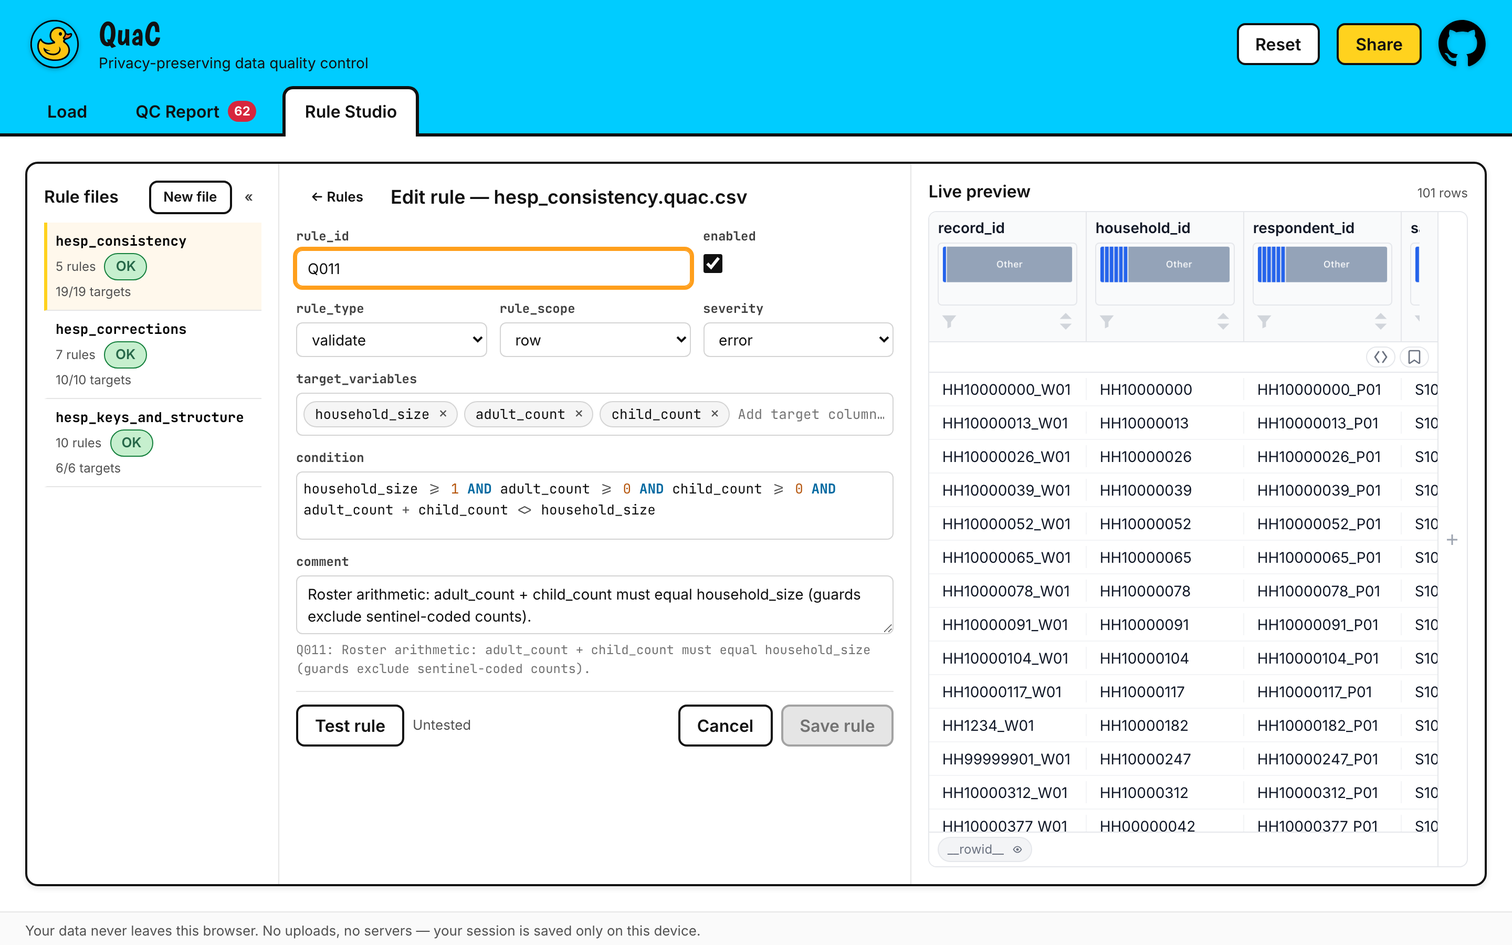
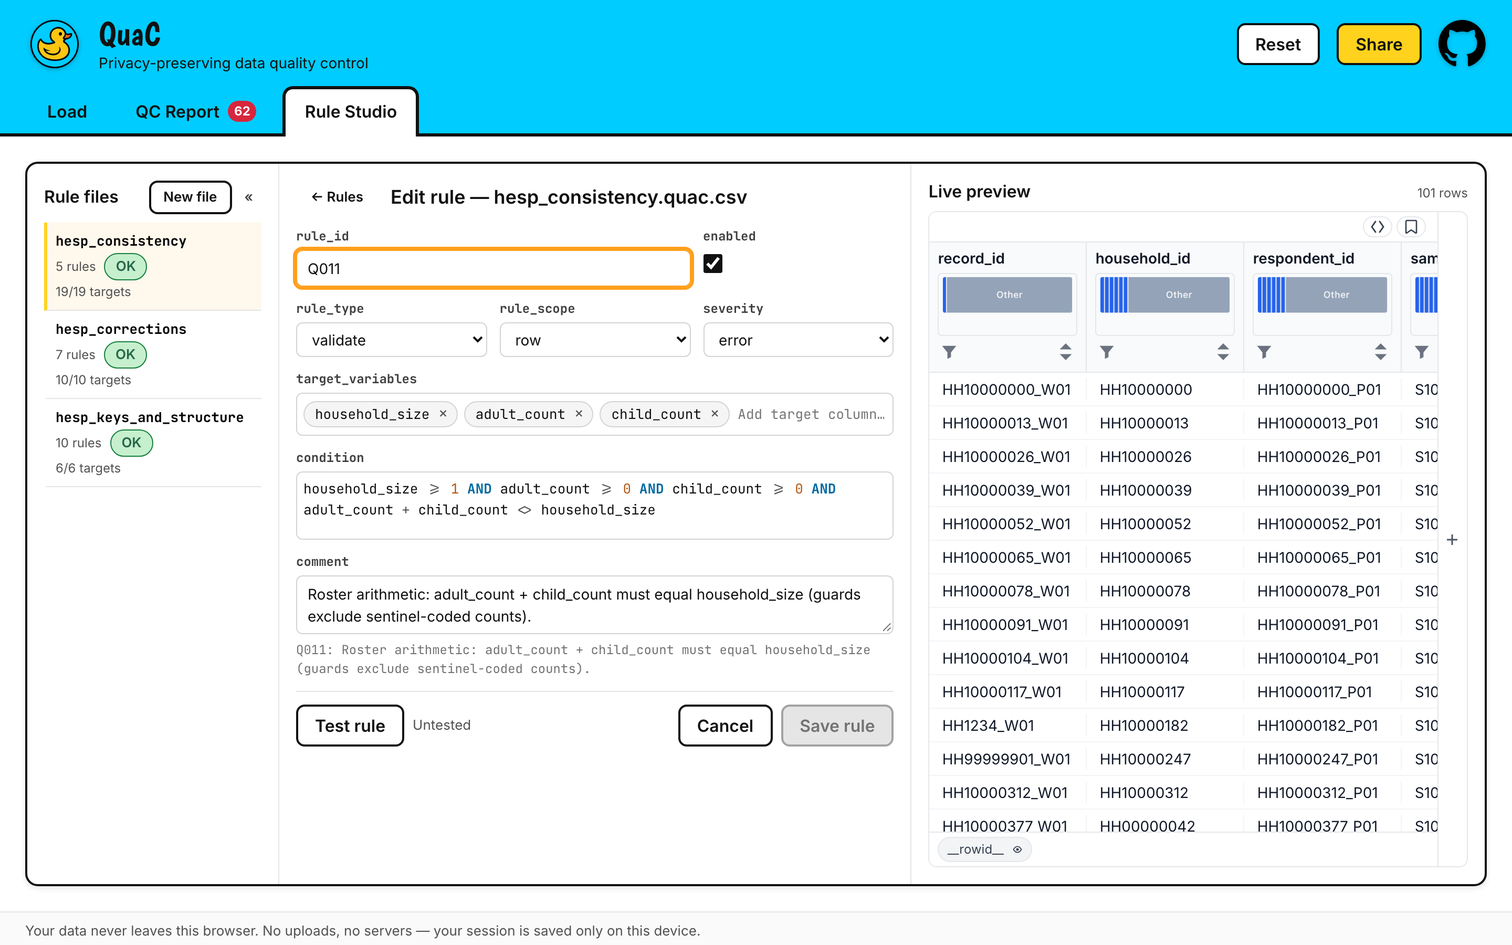
docs: data-table 0.10 and the dictionary component, written down
* data-table-api.md was still the 0.5.1 cheat sheet that calls itself
    authoritative. Its false lines are corrected in place (identity and peer
    range, the 8th filter type, the popover's per-section cap, the keyboard
    trap 0.6.0 cured, the VERSION constant), and a new §10 records what
    changed between 0.5.1 and 0.10.0 as QuaC uses it, with pointers to the
    evidence.
  * architecture.md gains V31–V35: the loader's own virtual file names (UX-01
    retired, by experiment), painting every flag (perf, mutation test, the
    2,000,000-row session), Blob vs ArrayBuffer loads (A/B and the upstream
    memory envelope), the all-or-nothing date conversion (UX-03 gone
    upstream), and the dictionary component's three overridden defaults and
    two axe findings.
  * 00-master-plan.md: the progress-log entry for this round, V-range bumped.
  * README: the 20,000-highlight limitation is gone; the report section names
    F8 / Shift+F8 and what a screen reader hears; the Preview paragraph says
    what the JSON Schema tab now is. Screenshots regenerated with
    `npm run screenshots` — report.png and studio.png change with the grid,
    load.png comes out byte-identical (it shows the Dataset tab).

Changed region(s): [[0.625, 0.2178, 0.9688, 0.3422]]

diff --git a/docs/plan/specs/data-table-api.md b/docs/plan/specs/data-table-api.md
@@ -1,19 +1,20 @@
-# Spec: `@jeyabbalas/data-table` v0.5.1 — API Cheat Sheet & Integration Rules
+# Spec: `@jeyabbalas/data-table` — API Cheat Sheet & Integration Rules
 
 > Audience: any phase that touches the data grid, the shared DuckDB bridge, annotations, tooltips, or filters.
 > Source: library README/docs/types on GitHub `main` + npm registry (researched 2026-07-23), plus facts confirmed
-> by the library author against the **v0.5.1 tag** (marked ✅ AUTHOR-CONFIRMED). Treat this file as authoritative;
-> if the library's behavior contradicts it, follow the protocol in `00-master-plan.md` (verify ≤30 min, record in
-> `architecture.md → Verified facts`).
+> by the library author against the **v0.5.1 tag** (marked ✅ AUTHOR-CONFIRMED). Written against 0.5.1; QuaC is on
+> **0.10.0** since 2026-10-11, and **§10 records what changed on the way and what QuaC now relies on** — read it
+> before trusting a 0.5.1-era line below. Treat this file as authoritative; if the library's behavior contradicts
+> it, follow the protocol in `00-master-plan.md` (verify ≤30 min, record in `architecture.md → Verified facts`).
 
 ## 1. Identity & distribution
 
 | Field | Value |
 |---|---|
-| Package | `@jeyabbalas/data-table` **0.5.1** (published 2026-05-18), MIT |
+| Package | `@jeyabbalas/data-table` **0.10.0** (published 2026-10-11), MIT — pinned exactly. 0.5.1 → 0.7.0 at QuaC 1.1.0, → 0.10.0 at 1.2.0 |
 | Format | **ESM only** (`type: module`); entry `./dist/data-table.js`; extra exports `/advanced` (NOT semver-stable — pin if used) and `/styles` (CSS, required) |
 | Model | Vanilla TS **factory function** mounting into a host `HTMLElement`. No framework required |
-| Peer deps | `@duckdb/duckdb-wasm ^1.33.1-dev45.0` (required); 6× CodeMirror packages + `@lezer/highlight` (optional — only for its built-in SQL editor; QuaC installs CodeMirror anyway) |
+| Peer deps | `@duckdb/duckdb-wasm ^1.33.1-dev57.0` (required; since 0.9 — the build its worker is made with, and QuaC's exact pin); 6× CodeMirror packages + `@lezer/highlight` (optional — only for its built-in SQL editor; QuaC installs CodeMirror anyway) |
 | DuckDB loading | Worker via `new Worker(new URL(...), {type:'module'})`; WASM bundles from **jsDelivr by default**; QuaC **self-hosts** instead (see §8) |
 | COOP/COEP | **Not required.** Falls back to `mvp`/`eh` single-threaded bundles automatically → works on GitHub Pages |
 | Browser floor | Worker, WebAssembly, IndexedDB (unless `persistence:false`), ResizeObserver, BigInt, structuredClone (~Chrome/Edge 98+, FF 94+, Safari 15.4+). `checkBrowserSupport()` available |
@@ -114,7 +115,7 @@ scope: 'row' | 'column' | 'cell';  severity: 'error' | 'warning' | 'info';
 - `rowId` = the display table's **`__rowid__`** (BIGINT — convert with `Number()`). Because QuaC exports display bytes ordered by its own `__row__` key with `__row__` excluded, **`__rowid__ === __row__`** after load, so `QCFlag.row` maps directly (see `architecture.md §row identity`).
 - `code`/`source`/`metadata` carry QuaC provenance: `code = ruleId`, `source = flag.source`, `metadata = {scope, correction?}`.
 - Live: `add`/`update` after render repaint immediately; `setSeverityFilter` hides tiers without deleting.
-- Rendering: tinted backgrounds via CSS classes (`dt-cell--annotated dt-cell--annotation-error` etc.; highest severity wins per element) + hover/focus popover (ARIA `role="tooltip"`) listing all annotations grouped by scope. Color tokens: `--dt-annotation-{error|warning|info}-{fg|bg|bdr}`.
+- Rendering: tinted backgrounds via CSS classes (`dt-cell--annotated dt-cell--annotation-error` etc.; highest severity wins per element) + hover/focus popover (ARIA `role="tooltip"`) grouped by scope — since 0.10 at most five per section with a "+N more" count, leaving out the severities the severity filter hides. Color tokens: `--dt-annotation-{error|warning|info}-{fg|bg|bdr}`.
 - **Annotations do NOT survive `loadData()`** — re-apply from the FlagStore after every refresh (cheap: flags are the source of truth; `toJSON()/loadJSON()` exists but re-derivation is simpler and always correct).
 
 ## 5. Column-header tooltips
@@ -136,7 +137,7 @@ Not schema-aware: QuaC builds content per column from schema digests + rules tar
 ## 6. Sorting, filters, derived columns, visualizations
 
 - Sort: `actions.setSort(SortColumn[])`, `toggleSort(col)`, `addToSort(col)`, `clearSort()`.
-- Filters (7 types: `range|point|set|notset|null|pattern|raw-sql`): `addFilter`, `removeFilter(column, type?)`, `clearFilters()`, `loadFilterPreset(...)`.
+- Filters (8 types since 0.10: `range|point|set|notset|null|pattern|raw-sql|annotated`): `addFilter`, `removeFilter(column, type?)`, `clearFilters()`, `loadFilterPreset(...)`.
 - **Raw SQL filters (Studio live preview!):**
   ```
   addRawSQLFilter(sql, label?): string     updateRawSQLFilter(id, sql, label?)
@@ -185,9 +186,47 @@ Priority: `workerFactory > workerUrl > default`. ⚠ Under the `/quac/` Pages
   the library's stylesheet turns the whole grid dark unless the instance carries `data-dt-color-scheme="light"`, and
   only the option sets that attribute — so **every** `createDataTable` call must pass `colorScheme: 'light'`
   explicitly, or a dark-OS user gets a dark grid inside QuaC's white work area.
-- **Accessibility debt** (P19, measured — V22 and `ui-design.md §9`): the grid is a WCAG 2.1.2 **keyboard trap**, and
-  axe reports `aria-required-children` (critical), `color-contrast` on `.dt-col-stats`/`.dt-hidden-chip-name`, and
-  `scrollable-region-focusable` on `.dt-body-scroll`. Re-check all of these on any version bump.
+- **Accessibility** (V22 and `ui-design.md §9`): 0.5.1 was a WCAG 2.1.2 **keyboard trap** with three axe findings;
+  0.6.0 cured all of it, and 0.10.0 re-measures clean — `.dt-root` is five tab stops. Re-check on any version
+  bump, with a keyboard walk as well as the axe pass (axe cannot see a trap).
 - Export dialog (CSV/JSON/Parquet) is a lazy ~71–77 kB chunk; QuaC keeps it enabled on the report grid (harmless, useful).
 - Bundle: library JS ~8 kB brotli + styles ~17 kB; the weight is DuckDB WASM itself.
-- Stale bits in upstream docs: exported `VERSION` constant says 0.1.0 (trust package.json); `docs/performance.md` lists CJS sizes but the package is ESM-only since 0.4.0.
+- Stale bits in upstream docs (at 0.5.1): exported `VERSION` constant said 0.1.0 — it reports the real version at
+  0.10.0; `docs/performance.md` listed CJS sizes but the package is ESM-only since 0.4.0.
+
+## 10. 0.5.1 → 0.10.0: what changed, as QuaC uses it
+
+Measured against QuaC's call sites, not taken from the changelog (V31–V34 hold the evidence).
+
+- **Annotations at a million (0.10).** The store indexes each scope and the grid renders from O(1) per-row, per-column
+  and per-cell summaries. QuaC therefore paints **every** flag the FlagStore materializes — the 20,000-cell
+  `ANNOTATION_CAP` and its banner are gone (V32) — in **one** `addMany`: it validates the whole batch (shape only:
+  severity, non-empty message, finite `rowId`, non-empty `column` — never the column against the table) before
+  storing any of it, and fires one `change` event. `clear()` no longer throws past ~125,000 annotations.
+- **Navigation (0.10).** `F8` / `Shift+F8` (and `Alt+↓` / `Alt+↑`) step between the annotations the severity filter
+  shows, in view order, wrapping at the ends, and announce each landing in the grid's `.dt-announce` live region
+  ("Row 99,928 of 100,000, height_cm: error, …"). QuaC leaves `annotationNavigation` at its default (on); the perf
+  gate uses `Shift+F8` to prove every cell is painted. Also new and unused by QuaC so far:
+  `actions.showAnnotatedRows()` (the `annotated` filter), `nextAnnotation()`, `revealRow(rowId)`.
+- **`getByCell` is the exact intersection (0.10)** — row-scope at the row, column-scope at the column, cell-scope at
+  exactly that cell. QuaC does not call it.
+- **Loading (0.9).** A `Blob`/`File` is registered as a file handle and read from disk as it decodes; an
+  `ArrayBuffer` is copied into DuckDB's wasm memory first. Both grids pass a `Blob` (`parquetSource`, V33). A load
+  is checked against a memory estimate first and refused with `LOAD_MEMORY_EXCEEDED` when it cannot fit. Unnamed
+  binary is taken to be Parquet.
+- **The loader names its own virtual file (0.9, `__dt_source_<n>`)**, so the UX-01 path collision cannot recur;
+  `nextDisplayTableName` stays but is no longer load-bearing (V31).
+- **Text dates (0.9)** convert to DATE/TIMESTAMP only when *every* value converts unchanged. H004's `interview_date`
+  (one unparseable value) now stays VARCHAR in the grid, as in QuaC's `data` view — the UX-03 divergence is gone
+  upstream (V34).
+- **Wide tables (0.9)** render, fetch and chart only the columns near the view: HESP's 266-column grid holds 743
+  focusable candidates where 0.7.0 held 6,923.
+- **Large row counts (0.7)**: the scroll spacer is capped and blocks are fetched by `__rowid__` range, so the last
+  row of a 2,000,000-row grid is reachable (`Ctrl+End`, a thumb drag, `F8`).
+- **A failed initial load tears the table down (0.9)** — `createDataTable` removes its half-built mount before
+  rejecting; QuaC replaces the host with its own note either way.
+- **The worker's new statements (0.9–0.10)**, audited against QuaC's hardening: `SET enable_external_file_cache`
+  and `SET prefetch_all_parquet_files` are reader settings, and `LOAD json` (for Parquet holding JSON) is a no-op
+  after `hardenBridge` pre-loads it. No new extension is reachable.
+- **Annotation persistence moved to its own IndexedDB database (0.10)**; both QuaC grids use `persistence: false`,
+  so neither database is touched.

diff --git a/docs/plan/specs/architecture.md b/docs/plan/specs/architecture.md
@@ -201,5 +201,10 @@ P03 verdict (V5): the byte-retrieval step is `bridge.exportToBuffer(sql, 'parque
 | V29 | **`@jeyabbalas/data-table`'s package root imports cleanly under plain Node ESM, with no DOM and no browser** — `node --input-type=module -e "import { quoteIdentifier, VERSION } from '@jeyabbalas/data-table'"` resolves, executes and returns `0.5.1`. The module graph reached by the root export is evaluation-safe outside a browser; only the components that touch `document` fail, and importing does not touch them. CJS is a different story and fails hard (`require()` → `ERR_PACKAGE_PATH_NOT_EXPORTED`; the package has no CJS main), which is not a problem here because the repo is `"type": "module"` throughout. This is what lets `tests/unit/core/sql-identifier.test.ts` — the agreement test proving QuaC's lifted `quoteIdentifier` still matches the package's own, character for character — live in the FAST unit tier (318 cases, 256 ms) instead of the browser tier, which is the difference between a check that runs on every `npm run verify` and one that runs when someone remembers | ✅ confirmed | P22 `tests/unit/core/sql-identifier.test.ts`, 2026-07-30 |
 
 | V30 | **npm's name-similarity check runs on PUT, not on GET — a 404 from `npm view <name>` does NOT mean the name is publishable.** `npm view quac` returned `E404 Not Found` (the P21 §9 check, and again on release day), and `npm publish --dry-run` succeeded, because a dry run does not contact the registry's validation. The real publish failed: `E403 … Package name too similar to existing package cac; try renaming your package to '@jeyabbalas/quac'`. The typo-squatting guard compares against every existing name and is only evaluated when the tarball is actually offered, so **nothing available locally can predict it** — the only test is publishing. Scoping is the documented escape and costs nothing user-facing: `bin` names the COMMAND, so `@jeyabbalas/quac` still installs `quac`. It drags one rule in with it — a scoped package defaults to `restricted`, so `publishConfig: {access: "public"}` is now required (P21's note that "no publishConfig is needed, `quac` is unscoped" died with the name). Both are pinned by `tests/cli/dependencies.test.ts`. Successors: budget for a rename at the moment of first publish, not before it | ✅ confirmed | P22 real `npm publish` attempt, 2026-07-30 |
+| V31 | **Since `@jeyabbalas/data-table` 0.9.0 the parquet loader names its duckdb-wasm virtual file itself (`__dt_source_<n>`, upstream 9d2827c2, for injection safety), so the UX-01 collision — a fixed table name reusing one path, "No magic bytes found at end of file" on a reshaped rebuild — cannot recur.** Proved by the change its docstring promised would fail: `displayGridReshape.browser.test.ts` pinned to the bare `QUAC_DISPLAY` constant passes on 0.10.0. `nextDisplayTableName` stays (free; keeps each build's table distinct) but is no longer load-bearing, and the comments say so | ✅ confirmed | 2026-10-11, the experiment above + the upstream commit |
+| V32 | **data-table 0.10 makes QuaC's 20,000-cell paint cap pointless, so it is removed: the grid paints every flag the FlagStore materializes (≤ 200,000) in ONE `addMany`.** 0.10 indexes the annotation store and renders from O(1) summaries (its own measurement: a scroll step within 2 ms of an unannotated table at a million). `addMany` validates SHAPE only — severity, a non-empty message (QuaC's blank-comment fallback guarantees one), a finite `rowId`, a non-empty `column`, never the column against the table — before storing any entry, and fires one change event. The perf gate (100k × 20) now paints all 33,000 cells: 2,763 ms total, 30 MB heap, against 3,439 ms / 45 MB at P22 painting 20,000; its proof is `Shift+F8` wrapping to row 99,928, mutation-tested (a reinstated cap lands on row 60,601). Scale-checked by hand on 2,000,000 × 21 with 170,000 cell flags: run 12.5 s, `F8`/`Shift+F8` exact to the generator, offender focus over 10,000 scattered row ids 1.5 s, scroll frames 4–7 ms | ✅ confirmed | 2026-10-11, `perf.smoke.spec.ts` + manual Chrome session |
+| V33 | **A `Blob` display source loads as fast as an `ArrayBuffer` on data-table 0.10 and keeps the parquet file out of DuckDB's wasm heap; both grids now pass one (`parquetSource`).** A buffered (ArrayBuffer) load copies the whole file into wasm linear memory, which only grows; a Blob is registered as a file handle and read in `prefetch` mode when it fits. Interleaved A/B, 1,000,000 × 20 (20.6 MB parquet), three runs each: ArrayBuffer 1,986 / 1,840 / 1,791 ms, Blob 1,926 / 1,826 / 1,799 ms. `duckdb_memory()` reads 421–422 MB both ways because it cannot see the transient file buffer; the library's envelope (`docs/dev/memory-envelope.md`, same duckdb-wasm build) puts buffered peak = file-handle peak + file size (5M × 40: 3,686 vs 2,154 MiB). The Blob constructor refuses a SharedArrayBuffer view, so `parquetSource` copies one out (none arrives: no cross-origin isolation) | ✅ confirmed | 2026-10-11, throwaway browser A/B + upstream envelope |
+| V34 | **data-table 0.9 converts a text column to DATE/TIMESTAMP only when EVERY value converts unchanged** (blanks become NULL). H004's `interview_date` carries one unparseable date, so the report grid now types it VARCHAR — as QuaC's `data` view does — and shows that value instead of NULL; the UX-03 divergence that made re-running H004's condition match zero grid rows is gone upstream (row-id focus, 1.1.0, had already stopped depending on it). A column whose every value is a valid ISO date still loads as DATE in the grid while `data` keeps VARCHAR, so the Studio's "Filter preview to matches" guard stays | ✅ confirmed | 2026-10-11, the example report grid in Chrome |
+| V35 | **json-schema-data-dictionary 0.7.0's `<json-data-dictionary>` component, adopted for the Load view's JSON Schema panel, has three defaults QuaC must override or avoid:** `theme` defaults to `'auto'` (a dark panel on a dark OS — V22's trap again), so QuaC passes `'light'`; `semanticSearch` downloads an embedding model from Hugging Face, so QuaC never passes it (network-isolation.spec searches the dictionary inside its zero-off-origin journey); and 0.6.0's `expandNested` (default `true`) would split an object-valued column into a row per field, breaking the dictionary = `columnDigest` count invariant, so `DICTIONARY_OPTIONS` pins it `false`. Its `--dd-*` custom properties inherit through the shadow boundary, which is how QuaC's fonts and palette reach it. axe finds two violations inside it, recorded in `ui-design.md §9`: `aria-required-attr` (critical, resize handles lack `aria-valuenow`) and `definition-list` (serious, a bare text `div` inside the Valid values `dl`) | ✅ confirmed | 2026-10-11, `loadPreview.spec.ts`, `a11y.spec.ts` diagnostic, `data-dictionary.test.ts` |
 
 Phases append rows here (with date + evidence) whenever reality is tested against a spec claim.

diff --git a/docs/plan/00-master-plan.md b/docs/plan/00-master-plan.md
@@ -22,7 +22,7 @@ The same pipeline also runs **headlessly** via a Node CLI (`quac`) and a `runQua
 
 | Doc | Contents |
 |---|---|
-| `specs/architecture.md` | Stack, module tree, canonical names (`__row__`, `quac_raw/typed/work`, view `data`), QCFlag, pipeline stages, security hardening, **Verified facts** (V1–V30) |
+| `specs/architecture.md` | Stack, module tree, canonical names (`__row__`, `quac_raw/typed/work`, view `data`), QCFlag, pipeline stages, security hardening, **Verified facts** (V1–V35) |
 | `specs/data-table-api.md` | data-table v0.5.1 cheat sheet + author-confirmed behaviors + integration rules |
 | `specs/ingestion.md` | Input slots UX, format conversions, guardrails, persistence policy |
 | `specs/json-schema-subsystem.md` | Schema-set loading, root detection + `index=` contract, Ajv config, casting, translator + keyword table + golden messages, digests/tooltips, worker protocol, edge ledger |
@@ -82,6 +82,28 @@ Headless tail (2026-07-30 amendment): **P20 → P21 → P22** — the release ph
 > it lives (module paths), spec deviations and V-fact changes, notes and warnings for successors, then a closing
 > counts line (unit/browser/e2e, entry KB gz). Repro narratives, measurement dumps, rejected alternatives and
 > verification walkthroughs belong in the phase file or the spec they amend — not here.
+
+2026-10-11 · deps · **`@jeyabbalas/data-table` 0.7.0 → 0.10.0, `json-schema-data-dictionary` 0.1.0 → 0.7.0, and the
+rest of the tree.** The data-table bump was a drop-in at every call site (worker's new `SET`s and `LOAD json` audited
+against the hardening; peer range is the dev57 pin). What it enabled shipped on top: **every flag is painted** —
+`ANNOTATION_CAP`, its banner and its Run Info row are gone (`core/report/annotations.ts`, one `addMany` in
+`reportGrid.ts`; V32) — and **both grids load a `Blob`** (`parquetSource` in `core/bridge/tables.ts`; V33). `F8` /
+`Shift+F8` annotation navigation comes free, and the perf gate now proves full painting with it (mutation-tested).
+UX-01's fresh table name is no longer load-bearing (V31) and H004's grid copy now stays VARCHAR (V34) — comments and
+specs say so. **The JSON Schema preview is the dictionary package's own `<json-data-dictionary>`** (owner's call; V35):
+`preview/dataDictionary.ts` mounts it themed through `--dd-*`, `theme: 'light'`, no semantic search, `expandNested`
+pinned off; QuaC's 524-line renderer, its search and model projection are deleted. axe finds two violations INSIDE the
+component (critical `aria-required-attr`, serious `definition-list`) — third-party, so diagnosed not gated, and in
+`ui-design.md` §9 with their upstream fixes. Also: `@duckdb/node-api` 1.5.6-r.1 (V19/V26 re-checked), vitest 5,
+es-module-lexer 3 (`specifier`, `init()`), an in-range sweep, `npm audit fix` (fast-uri 3.1.8 and brace-expansion in
+the CLI's runtime tree; 6 findings → 2, the `uuid`-under-`exceljs` pair). Holds unchanged: TS 6, `@types/node` 24,
+duckdb-wasm dev57, xlsx 0.20.3 (still the CDN's latest). One pre-existing e2e flake fixed (`loadExample` UX-09 read
+Findings off an unfinished run). **For successors:** the component's look is ours but its markup is not — re-run
+`a11y.spec`'s diagnostic on any dictionary bump; `traverse` 0.3.10 under exceljs brings ~85 polyfill packages to every
+CLI install, which no lockfile or override of ours can prevent. Pre-existing nits seen and left: the report page
+overflows by ~12px (footer 37px against a 24px allowance), the Offenders `warning` pill wraps, and the QC Report tab
+badge prints `170000` unformatted.
+1202 unit · 73 browser · 53 cli · 122 e2e green; entry 47.2 KB gz (budget 300), dictionary chunk 41.4 KB gz.
 
 2026-09-01 · deps · **`@jeyabbalas/data-table` 0.5.1 → 0.7.0, plus 14 other packages to latest.** Runtime:
 `@duckdb/node-api` 1.5.5-r.1→r.4, `papaparse` 5.5.4→5.7.0. Dev: `vite` 8.2.2, `vitest`/`@vitest/browser-playwright`

diff --git a/README.md b/README.md
@@ -68,7 +68,11 @@ does not have and QuaC names them before you run, instead of failing halfway thr
 
 The **Preview** panel below the three slots is the early-warning system: it compares all three
 inputs against each other and says so when the dataset, the schema and the rules are not describing
-the same variables.
+the same variables. Its **JSON Schema** tab shows the schema as a searchable data dictionary,
+built with [json-schema-data-dictionary](https://github.com/jeyabbalas/json-schema-to-data-dictionary):
+the codes each variable allows and when a skip pattern sets them, with every skip pattern followable
+from either end — open **Skip logic** for the whole list, or follow a variable to the ones it
+governs.
 
 ---
 
@@ -198,9 +202,12 @@ The full grammar, the exact SQL each assertion expands to, and the `js` correcti
 ![The QC report: stat cards, findings panels, and the dataset grid with flagged cells highlighted](https://raw.githubusercontent.com/jeyabbalas/quac/main/docs/images/report.png)
 
 On screen you get counts, four panels (Summary, Missing vars, Findings, Offenders) and the dataset
-itself with every flagged cell coloured by severity. Clicking a rule in **Offenders** focuses the
-grid on the rows that rule flagged; a finding that names no particular row — a schema advisory, a
-dataset-level check — says so instead. **Download QC Report (.xlsx)** writes five sheets:
+itself with every flagged cell coloured by severity — every one the run recorded, on datasets of
+millions of rows. With focus in the grid, <kbd>F8</kbd> and <kbd>Shift</kbd>+<kbd>F8</kbd> step to
+the next and previous flagged cell, and a screen reader hears what was flagged there; the severity
+checkboxes decide which flags count. Clicking a rule in **Offenders** focuses the grid on the rows
+that rule flagged; a finding that names no particular row — a schema advisory, a dataset-level
+check — says so instead. **Download QC Report (.xlsx)** writes five sheets:
 
 | Sheet                 | What is in it                                                                                            |
 | --------------------- | -------------------------------------------------------------------------------------------------------- |
@@ -464,9 +471,8 @@ Worth knowing before you rely on it:
   still validated and every finding still counted; both that sheet and Run Info say what was cut.
 - **A run is capped, and says so.** At most 10,000 violating rows are individually flagged per rule
   (200 for a dataset-scope rule) and 200,000 flags are materialized per run. Exact counts survive
-  the caps — the Repeat Offenders sheet and the summary panel report the true totals either way. The
-  on-screen grid additionally paints at most 20,000 cell highlights, with a banner saying how many
-  there were; the Excel report is not limited by that figure. Every cap in force is written into the
+  the caps — the Repeat Offenders sheet and the summary panel report the true totals either way, and
+  the on-screen grid paints every flag that was materialized. Every cap in force is written into the
   Run Info sheet.
 - **`xlsx` installs from a CDN, not from npm.** SheetJS stopped publishing to the npm registry, so
   installing `quac` fetches one pinned, hash-verified tarball from `cdn.sheetjs.com`. Behind a
